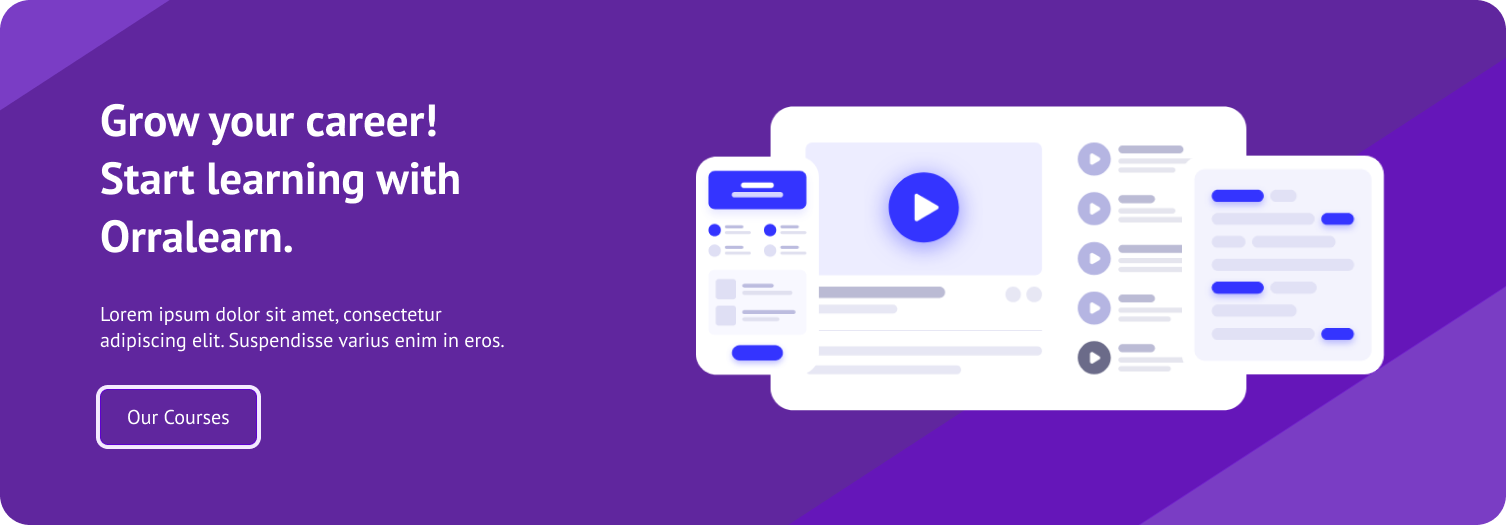
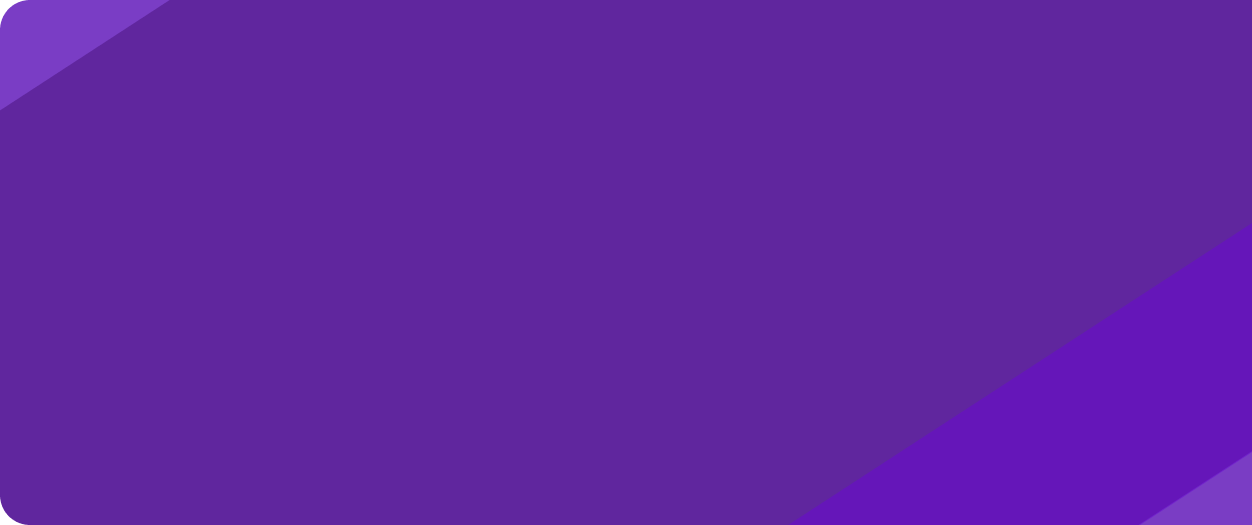
background image added to join section

diff --git a/css/home/join_us.css b/css/home/join_us.css
@@ -6,6 +6,7 @@
   justify-content: center;
   align-items: center;
   gap: 3.2rem;
+  margin-bottom: 6rem;
 }
 
 .community-top {
@@ -184,7 +185,6 @@
 
 /* growth */
 .community-bottom {
-  background-color: rgb(82, 6, 168);
   padding: 2rem;
   display: flex;
   flex-direction: column;
@@ -193,6 +193,9 @@
   gap: 4rem;
   border-radius: 24px;
   margin: 4rem auto;
+  background-image: url("/assets/growth.png");
+  background-size: cover;
+  background-repeat: no-repeat;
 }
 
 .grow-text-box {
@@ -213,7 +216,7 @@
 .g-btn {
   border: 1px solid white;
   color: white;
-  padding: 1rem;
+  padding: 1rem 2.4rem;
   font-size: var(--fs1);
   border-radius: 1.5rem;
 }
@@ -235,12 +238,25 @@
 
 /* tab */
 @media (min-width: 768px) {
+  .community-bottom {
+    padding: 2rem;
+    display: flex;
+    flex-direction: column;
+    justify-content: center;
+    align-items: center;
+    gap: 4rem;
+    border-radius: 24px;
+    margin: 4rem auto;
+    background-image: url("/assets/growth.png");
+    background-size: cover;
+    background-repeat: no-repeat;
+    background-position: center;
+  }
 }
 
 /* 1024 */
 @media (min-width: 1024px) {
   .community-bottom {
-    background-color: rgb(82, 6, 168);
     padding: 6rem;
     display: flex;
     flex-direction: row;
@@ -249,6 +265,9 @@
     gap: 8rem;
     border-radius: 24px;
     margin: 4rem auto;
+    background-image: url("/assets/growth.png");
+    background-size: cover;
+    background-position: center;
   }
 
   .grow-text-box {

diff --git a/html/home.html b/html/home.html
@@ -219,5 +219,28 @@
         </div>
       </div>
     </section>
+    <section class="Mentor-section">
+      <div class="mentor-text">
+        <h2 class="ment-header">Meet Our Mentors</h2>
+        <p class="ment-text">
+          In DevX, instructors from all over tthe world instruct millions oof
+          students. we offer the knowldege and abilities.
+        </p>
+      </div>
+      <div class="mentor-card-container">
+        <div class="ment-card">
+          <img src="" alt="" />
+          <p class="ment-name">ATO Bradley</p>
+          <span class="ment-role">Creator Of DevX</span>
+          <p class="ment-text">
+            Former co-founder of Opendoor. Erly staff at Spotify and Clearbit.
+          </p>
+          <div class="ment-socials">
+            <img src="" alt="" />
+            <img src="" alt="" />
+          </div>
+        </div>
+      </div>
+    </section>
   </body>
 </html>
